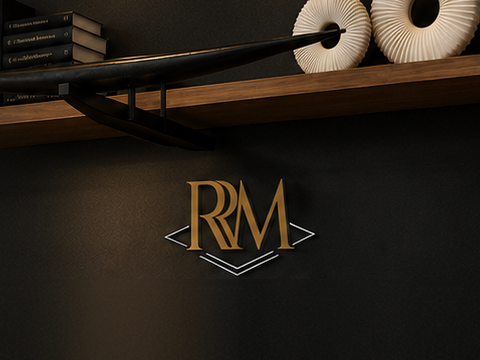
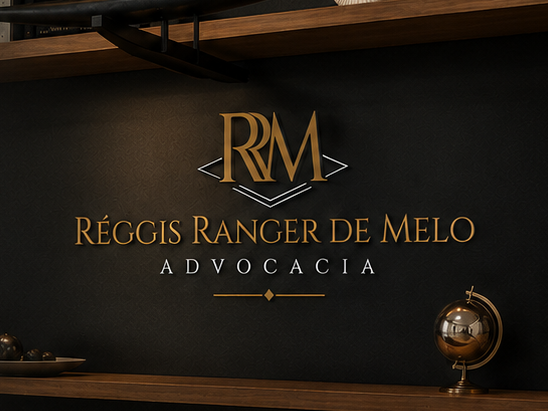
Troca a imagem do Sobre por um recorte fiel da placa inteira
- sobre-rm.png e sobre-rm.webp agora são um recorte direto de
  fundo-escritorio.png (x 672–1220, y 358–769), sem retoque nem
  reconstrução de fundo
- Mostram parte da prateleira e a placa inteira e centralizada:
  monograma, losango, nome, ADVOCACIA e ornamento
- Dimensões do img ajustadas para 548 × 411 (proporção 4:3 mantida)
- Comentário do CSS e README atualizados

Claude-Session: https://claude.ai/code/session_01KApZ8SoFFFQTTM2nY5PHcR

diff --git a/style.css b/style.css
@@ -380,9 +380,10 @@ h2::after {
 
 .container-largo { max-width: 76rem; }
 
-/* Imagem própria da seção (sobre-rm.webp / sobre-rm.png), já recortada a
-   partir de fundo-escritorio.png: o monograma e o losango ficam inteiros e
-   centralizados. É exibida inteira, na proporção fixa de 4:3, sem recorte. */
+/* Imagem própria da seção (sobre-rm.webp / sobre-rm.png): recorte fiel de
+   fundo-escritorio.png, sem retoque, com a placa inteira (monograma, nome,
+   ADVOCACIA e ornamento) centralizada. É exibida inteira, na proporção fixa
+   de 4:3, sem recorte. */
 .sobre-imagem {
   display: block;
   margin-bottom: 2rem;

diff --git a/index.html b/index.html
@@ -119,7 +119,7 @@
       <div class="container container-largo sobre">
         <picture class="sobre-imagem">
           <source srcset="sobre-rm.webp" type="image/webp">
-          <img src="sobre-rm.png" width="480" height="360" alt="" loading="lazy" decoding="async">
+          <img src="sobre-rm.png" width="548" height="411" alt="" loading="lazy" decoding="async">
         </picture>
         <div class="sobre-texto">
           <h2 id="escritorio-titulo">Sobre o escritório</h2>

diff --git a/README.md b/README.md
@@ -16,7 +16,7 @@ O site não tem formulários, cookies, pixels nem rastreamento individual. Para 
 | `script.js` | Menu do celular, botão fixo do WhatsApp e botão "Mostrar mapa" |
 | `logo-rrm.png` | Logotipo (aparece no cabeçalho, no rodapé e na prévia do link no WhatsApp e nas redes sociais) |
 | `fundo-escritorio.png` | Imagem original do escritório (não é usada diretamente pela página; serviu de base para `sobre-rm`) |
-| `sobre-rm.webp` / `sobre-rm.png` | Imagem ao lado do texto "Sobre o escritório": recorte de `fundo-escritorio.png` com a prateleira e o monograma RRM centralizado. O WebP é a versão leve; o PNG é a alternativa para navegadores antigos |
+| `sobre-rm.webp` / `sobre-rm.png` | Imagem ao lado do texto "Sobre o escritório": recorte fiel de `fundo-escritorio.png` (sem retoque), com parte da prateleira e a placa inteira centralizada (monograma, nome, ADVOCACIA e ornamento). O WebP é a versão leve; o PNG é a alternativa para navegadores antigos |
 | `favicon.ico`, `favicon-32.png`, `apple-touch-icon.png`, `icon-192.png`, `icon-512.png` | Ícones da aba do navegador e da tela do celular, feitos a partir do logotipo |
 | `rrm-icone.ico` | Ícone original enviado para o repositório (não é usado pela página) |
 | `site.webmanifest` | Nome e ícones usados quando alguém salva o site na tela inicial do celular |
